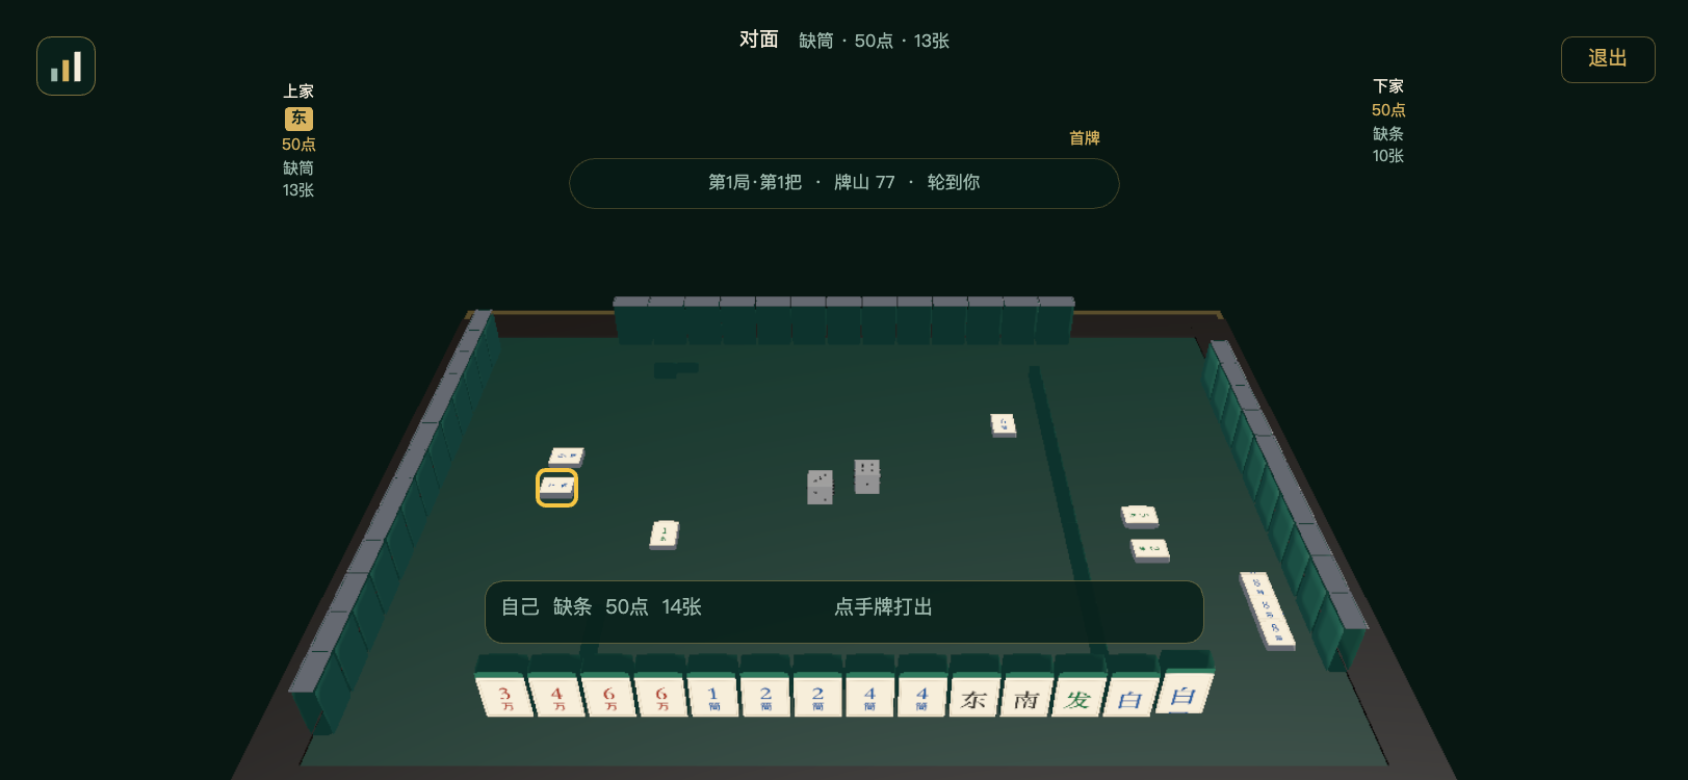
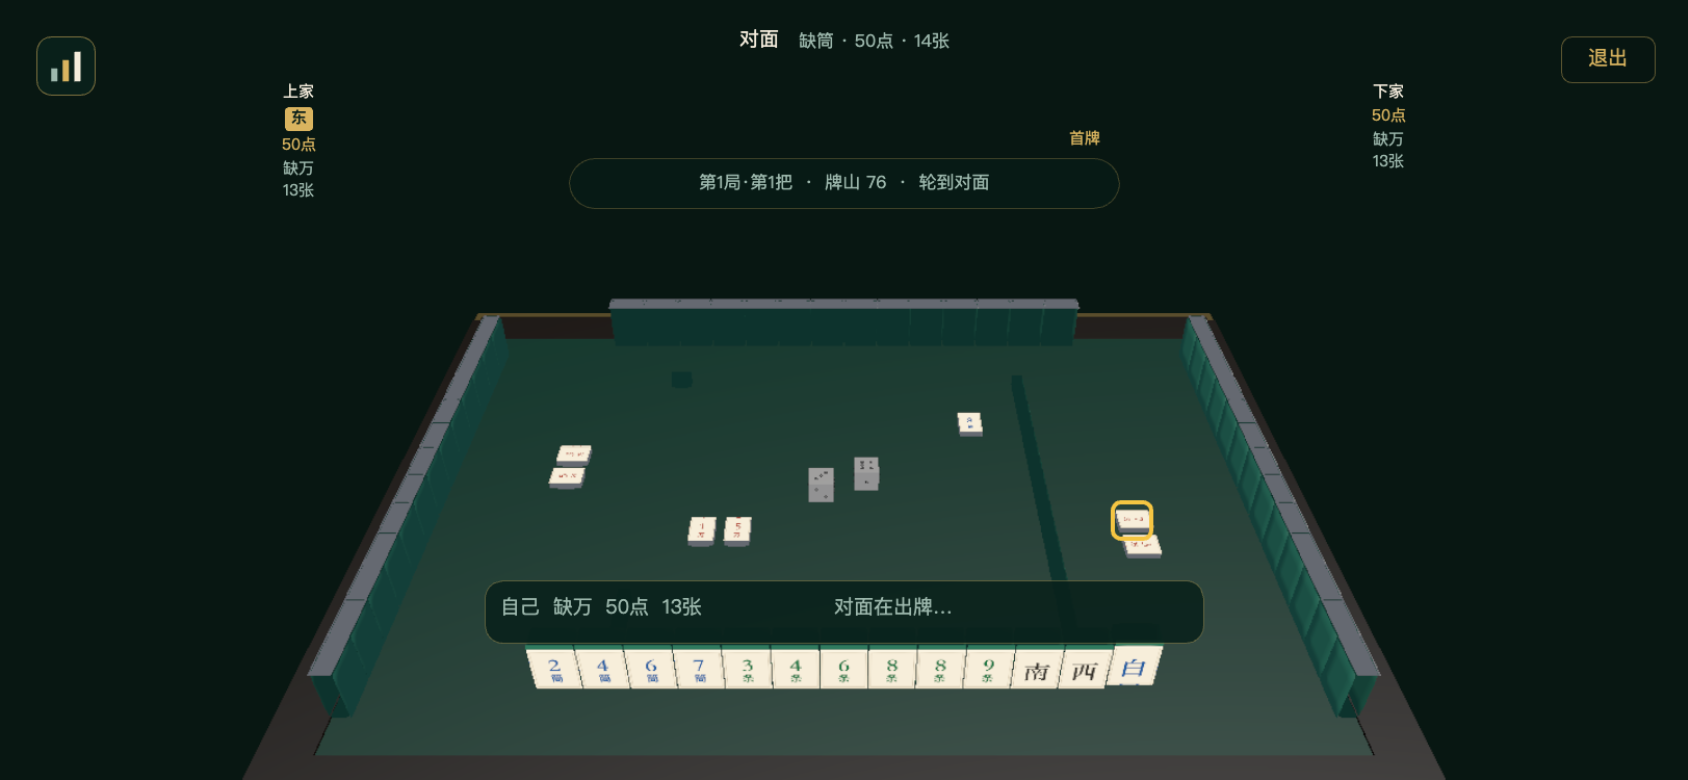
fix(layair): 手牌/牌河贴紧，侧家副露改为竖向
手牌和弃牌间距收到几乎相接；侧家碰杠副露改为沿桌边竖向排列，不再横向摆放；牌面几乎铺满牌体，减少牌缝。

diff --git a/layair/src/ui/Table3D.ts b/layair/src/ui/Table3D.ts
@@ -29,8 +29,8 @@ const FLAT_W = 38
 const FLAT_D = 50
 const TABLE_W = 1280
 const TABLE_D = 900
-const SELF_HAND_Z = TABLE_D / 2 - 90
-const WALL_SIDE = 650
+const SELF_HAND_Z = TABLE_D / 2 - 120
+const WALL_SIDE = 600
 const STACKS = 17
 const WALL_STEP = WALL_SIDE / STACKS
 const WALL_LEN = WALL_STEP - 0.8
@@ -90,7 +90,7 @@ export class Table3D {
     this.camera.cullingMask = 0xffffffff
     this.camera.nearPlane = 1
     this.camera.farPlane = 4000
-    this.camera.fieldOfView = 39
+    this.camera.fieldOfView = 40
     this.camera.transform.position = new Laya.Vector3(0, 1120, 1200)
     this.camera.transform.rotationEuler = new Laya.Vector3(-37, 0, 0)
 
@@ -344,8 +344,8 @@ export class Table3D {
 
     if (faceUp) {
       this.addRounded(
-        TILE_W - 3.5,
-        TILE_H - 3.5,
+        TILE_W - 1.5,
+        TILE_H - 1.5,
         1.7,
         0.85,
         this.faceMaterial(this.faceTexture(tile, false)),
@@ -358,8 +358,8 @@ export class Table3D {
       // 牌背：白顶 + 绿色牌背，牌背朝相机
       this.addRounded(TILE_W, 3, TILE_T, 1.2, this.bodyMaterial(COLORS.ivory), 0, TILE_H / 2 - 1.5, 0, group)
       this.addRounded(
-        TILE_W - 3.5,
-        TILE_H - 8,
+        TILE_W - 1.5,
+        TILE_H - 5,
         1.7,
         0.85,
         this.bodyMaterial('#3C9374'),
@@ -381,8 +381,8 @@ export class Table3D {
     this.addRounded(FLAT_W, 11, FLAT_D, 3.6, this.bodyMaterial(COLORS.ivory), 0, 0, 0, group)
     // 用竖牌面板绕 X 轴翻平，正面贴图自然朝上
     this.addRounded(
-      FLAT_W - 3,
-      FLAT_D - 3,
+      FLAT_W - 1.5,
+      FLAT_D - 1.5,
       1.7,
       0.8,
       this.faceMaterial(this.faceTexture(tile, true)),
@@ -425,7 +425,7 @@ export class Table3D {
     drawnIndex = -1
   ) {
     if (!tiles.length) return
-    const step = Math.min(TILE_W + 2, 940 / Math.max(1, tiles.length))
+    const step = Math.min(TILE_W, 940 / Math.max(1, tiles.length))
     const startX = -((tiles.length - 1) * step) / 2
     for (let i = 0; i < tiles.length; i += 1) {
       const tile = tiles[i]
@@ -446,7 +446,7 @@ export class Table3D {
 
   private addMelds(seat: number, player: HandState['players'][number]) {
     if (!player.melds.length) return
-    const flatGap = FLAT_W + 1.6
+    const flatGap = FLAT_W + 1
     let cursor = 0
     for (const meld of player.melds) {
       const tiles = meldTiles(meld)
@@ -461,12 +461,12 @@ export class Table3D {
           z = -260
         } else if (seat === 3) {
           x = -560
-          z = 250 - cursor * flatGap
+          z = 250 - cursor * FLAT_D
         } else {
           x = 560
-          z = 250 - cursor * flatGap
+          z = 250 - cursor * FLAT_D
         }
-        this.addFlatTile(tile, x, z, this.dynamicRoot)
+        this.addFlatTile(tile, x, z, this.dynamicRoot, seat === 3 ? 90 : seat === 1 ? -90 : 0)
         cursor += 1
       }
       cursor += 0.5
@@ -476,7 +476,7 @@ export class Table3D {
   private addDiscards(seat: number, tiles: Tile[]) {
     if (!tiles.length) return
     const last = this.hand?.lastPlayed
-    const step = 64
+    const step = 52
     const maxCols = seat === 0 || seat === 2 ? 8 : 7
     for (let i = 0; i < tiles.length; i += 1) {
       const tile = tiles[i]
@@ -492,12 +492,12 @@ export class Table3D {
         x = maxCols * step / 2 - col * step
         z = -180 + line * step
       } else if (seat === 3) {
-        x = -430 - line * 90
-        z = -100 + col * 68
+        x = -430 - line * 54
+        z = -100 + col * 52
         rotation = 90
       } else {
-        x = 430 + line * 90
-        z = 100 - col * 68
+        x = 430 + line * 54
+        z = 100 - col * 52
         rotation = -90
       }
       const node = this.addFlatTile(tile, x, z, this.dynamicRoot, rotation)
